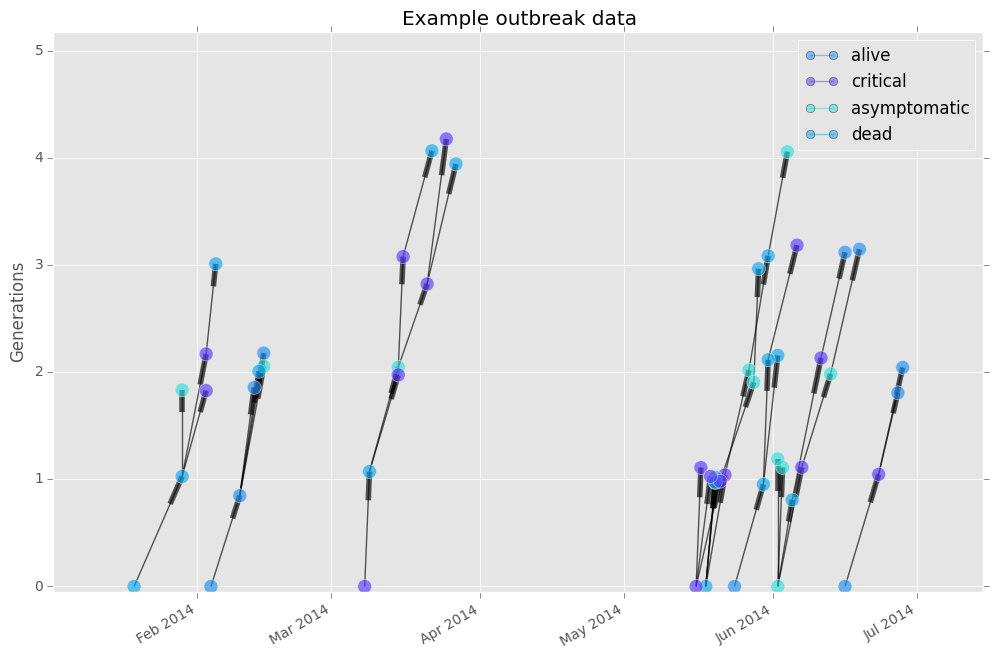
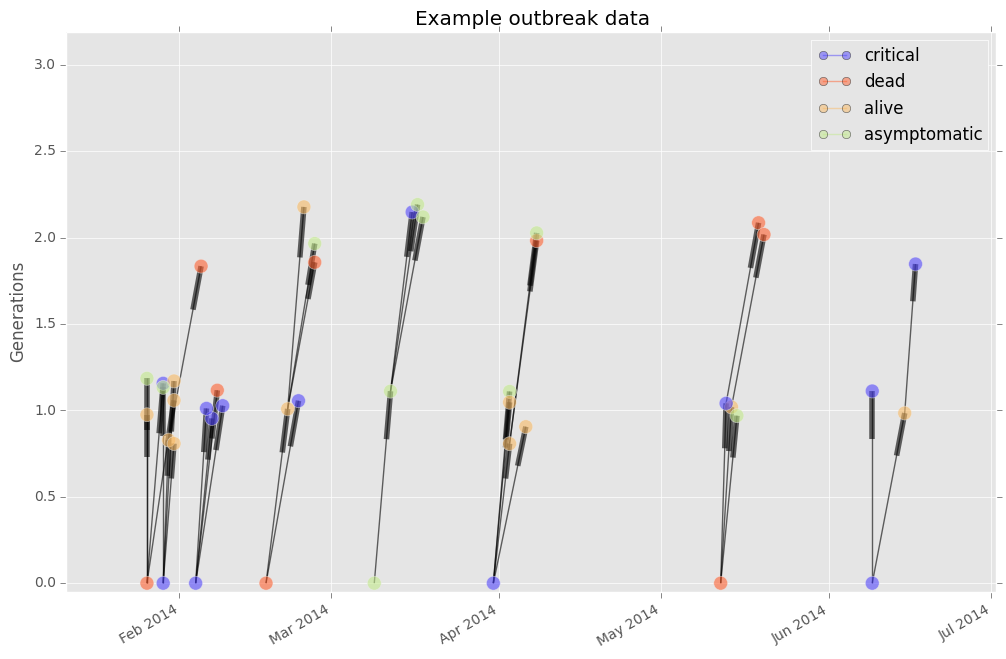
updates  before merge

diff --git a/epipy/analyses.py b/epipy/analyses.py
@@ -44,7 +44,7 @@ def _conf_interval(ratio, std_error):
     """
     Calculate 95% confidence interval for odds ratio and relative risk.
     """
-    
+
     _lci = np.log(ratio) - 1.96*std_error
     _uci = np.log(ratio) + 1.96*std_error
 
@@ -55,19 +55,19 @@ def _conf_interval(ratio, std_error):
 
 
 def reproduction_number(G, index_cases=True, plot=True):
-    """ 
+    """
     Finds each case's basic reproduction number, which is the number of secondary
     infections each case produces.
-    
+
     PARAMETERS
     ----------------
     G = networkx object
     index_cases = include index nodes, i.e. those at generation 0. Default is True.
                   Excluding them is useful if you want to calculate the human to human
                   reproduction number without considering zoonotically acquired cases.
-    summary = print summary statistics of the case reproduction numbers 
+    summary = print summary statistics of the case reproduction numbers
     plot = create histogram of case reproduction number distribution.
-    
+
     RETURNS
     ----------------
     pandas series of case reproduction numbers and matplotlib figure
@@ -76,18 +76,18 @@ def reproduction_number(G, index_cases=True, plot=True):
 
     if index_cases == True:
         R = pd.Series(G.out_degree())
-        
+
     elif index_cases == False:
         degrees = {}
-        
+
         for n in G.node:
             if G.node[n]['generation'] > 0:
                 degrees[n] = G.out_degree(n)
         R = pd.Series(degrees)
-    
+
     print 'Summary of reproduction numbers'
     print R.describe(), '\n'
-        
+
     if plot == True:
         fig, ax = plt.subplots()
         R.hist(ax=ax, alpha=.5)
@@ -101,32 +101,32 @@ def reproduction_number(G, index_cases=True, plot=True):
 
 
 def generation_analysis(G, attribute, plot=True):
-    """ 
+    """
     Analyzes an attribute, e.g. health status, by generation.
-    
+
     PARAMETERS
     -------------
     G = networkx object
     attribute = case attribute for analysis, e.g. health status or sex
     table = print cross table of attribute by generation. Default is true.
     plot = produce histogram of attribute by generation. Default is true.
-    
+
     RETURNS
     --------------
     matplotlib figure and axis objects
-    
+
     """
-    
+
     gen_df = pd.DataFrame(G.node).T
-    
+
     print '{} by generation'.format(attribute)
     table = pd.crosstab(gen_df.generation, gen_df[attribute], margins=True)
     print table, '\n'
-    
+
     if plot == True:
         fig, ax = plt.subplots()
         ax.set_aspect('auto')
-        pd.crosstab(gen_df.generation, gen_df[attribute]).plot(kind='bar', ax=ax, alpha=.5)
+        pd.crosstab(gen_df.generation, gen_df[attribute]).plot(kind='bar', ax=ax, alpha=.5, rot=0)
         ax.set_xlabel('Generation')
         ax.set_ylabel('Case count')
         ax.grid(False)
@@ -162,7 +162,7 @@ def create_2x2(df, row, column, row_order, col_order):
     """
     if type(col_order) != list or type(row_order) != list:
         raise TypeError('row_order and col_order must each be lists of length 2')
-        
+
     if len(col_order) != 2 or len(row_order) != 2:
         raise AssertionError('row_order and col_order must each be lists of length 2')
 
@@ -172,7 +172,7 @@ def create_2x2(df, row, column, row_order, col_order):
     brow = row_order[1]
     tcol = col_order[0]
     bcol = col_order[1]
-    
+
     table = pd.DataFrame(_table, index=[trow, brow, 'All'], columns=[tcol, bcol, 'All'])
 
     return table
@@ -191,7 +191,7 @@ def analyze_2x2(table):
     Exposure    YES     NO
     YES         a       b
     NO          c       d
-    
+
     """
     odds_ratio(table)
     relative_risk(table)
@@ -220,12 +220,12 @@ def odds_ratio(table):
 
     return round(ratio, 2), or_ci
 
-    
+
 def relative_risk(table):
     """
     Calculates the relative risk and 95% confidence interval. See also
     analyze_2x2().
-    
+
     PARAMETERS
     ----------------------
     table = accepts pandas dataframe, numpy array, or list in [a, b, c, d] format.
@@ -235,7 +235,7 @@ def relative_risk(table):
     returns and prints relative risk and tuple of 95% confidence interval
     """
     a, b, c, d = _ordered_table(table)
-    
+
     rr = (a/(a+b))/(c/(c+d))
     rr_se = np.sqrt(((1/a)+(1/c)) - ((1/(a+b)) + (1/(c+d))))
     rr_ci = _conf_interval(rr, rr_se)
@@ -268,4 +268,4 @@ def chi2(table):
 
 
 
-    
+

diff --git a/docs/examples.py b/docs/examples.py
@@ -42,26 +42,25 @@ fig.savefig(os.path.join(dir, '../figs/example_casetree.png'), bbox_inches='tigh
 
 # if you have in data to load instead of generating it
 try:
-    test_df = pd.read_pickle(os.path.join(dir, '../data/test_cluster.pkl'))
+    test_df = pd.read_pickle(os.path.join(dir, 'test_cluster.pkl'))
 except:
-    from data_generator import generate_example_data
-    test_df = generate_example_data(cluster_size=5, outbreak_len=180,
-                clusters=10, gen_time=5, attribute='health')
+    test_df = epipy.generate_example_data(cluster_size=7, outbreak_len=120,
+                clusters=8, gen_time=7, attribute='sex')
     test_df.to_pickle(os.path.join(dir, '../data/test_cluster.pkl'))
 
-test_clusters = epipy.cluster_builder(test_df, 'Cluster', 'ID', 'Date', 'Cluster', 5, 1)
+test_clusters = epipy.cluster_builder(test_df, 'Cluster', 'ID', 'Date', 'sex', 3, 1)
 
 # Case tree plot
-test_G = epipy.build_graph(test_clusters, color='Cluster')
-fig, ax = epipy.case_tree_plot(test_G, color='Cluster')
-ax.set_title('Example outbreak data')
+test_G = epipy.build_graph(test_clusters, color='sex')
+fig, ax = epipy.case_tree_plot(test_G, color='sex')
+#ax.set_title('Case tree plot using example outbreak data')
 ax.set_ylabel('Generations')
 ax.grid(True)
 fig.savefig(os.path.join(dir, '../figs/test_casetree.png'), bbox_inches='tight')
 
 # Checkerboard plot
 fig, ax = epipy.checkerboard_plot(test_df, 'ID', 'Cluster', 'Date')
-ax.set_title("Test data")
+#ax.set_title("Checkerboard plot using example outbreak data")
 fig.savefig(os.path.join(dir, '../figs/test_checkerboard.png'), bbox_inches='tight')
 
 

diff --git a/epipy/data_generator.py b/epipy/data_generator.py
@@ -41,15 +41,15 @@ def generate_example_data(cluster_size, outbreak_len, clusters, gen_time, attrib
         ix_rng = pd.date_range('1/1/2014', periods=outbreak_len, freq='D')
         ix_date = np.random.choice(ix_rng, size=1)
 
-        rng = int(np.random.normal(cluster_size, 2, 1))
+        rng = int(np.random.normal(cluster_size, 1, 1))
         if rng < 2:
             rng += 1
-            
+
         for n in range(rng):
             date = _date_choice(ix_date[0], gen_time)[0]
 
             if attribute.lower() == 'sex':
-                attr =  np.random.choice(['M', 'F'], size=1)[0]
+                attr =  np.random.choice(['Male', 'Female'], size=1)[0]
             elif attribute.lower() == 'health':
                 attr = np.random.choice(['asymptomatic', 'alive', 'critical', 'dead'], size=1)[0]
 

diff --git a/setup.py b/setup.py
@@ -23,12 +23,8 @@ setup(
                'epipy/case_tree.py',
                'epipy/checkerboard.py',
                'epipy/data_generator.py',
-<<<<<<< HEAD
-                'epipy/epicurve.py', 'epipy/analyses.py'],
-=======
                 'epipy/epicurve.py',
                 'epipy/analyses.py'],
->>>>>>> 61a245b264dbe5fc66d22ebf693ab3ff7cbb5418
     #long_description=read('README'),
     classifiers=[
         "Development Status :: 2 - Pre-Alpha",

diff --git a/epipy/__init__.py b/epipy/__init__.py
@@ -2,12 +2,7 @@
 # tools
 from .data_generator import generate_example_data
 from .basics import date_convert, group_clusters, cluster_builder
-<<<<<<< HEAD
-from .analyses import *
-=======
 from .analyses import generation_analysis, reproduction_number
-
->>>>>>> 61a245b264dbe5fc66d22ebf693ab3ff7cbb5418
 # plotting
 from .case_tree import build_graph, case_tree_plot
 from .epicurve import epicurve_plot
